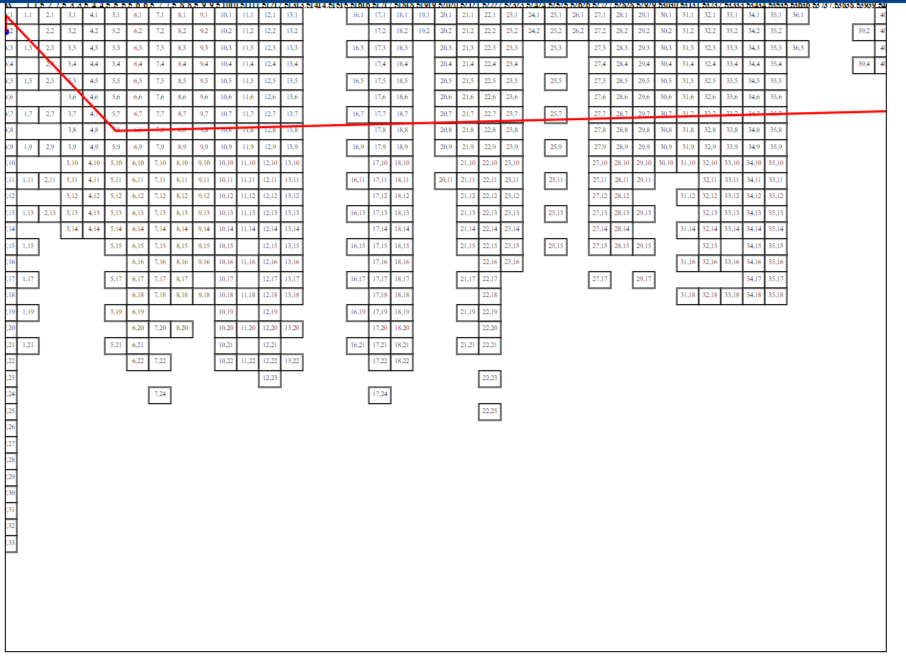
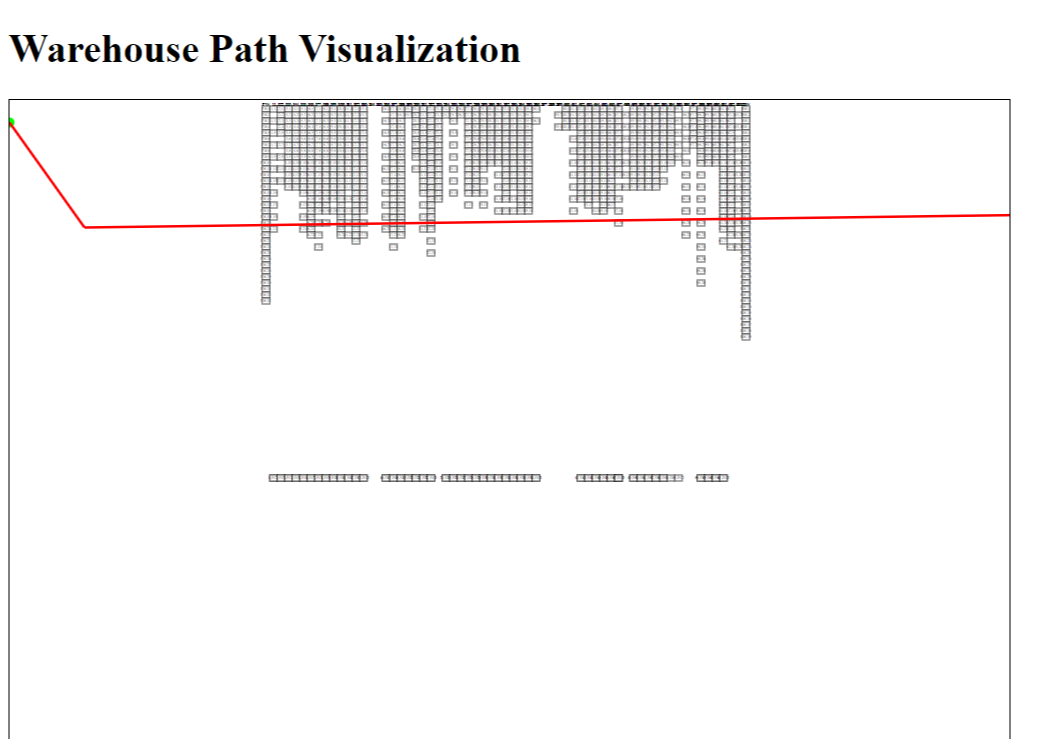
Agent query: Please check if the warehouse visualization now displays all aisles from 1 to 63, including non-integer values, and if the scroll function is working properly. Also, verify if the path lines up correctly over the destinations. Test with the following pallet list: FW,1 1.5,3 3,EC2 BW,3 2

Changed region(s): [[0.0, 0.0, 1.0, 0.9985]]

diff --git a/templates/visualization.html b/templates/visualization.html
@@ -5,8 +5,14 @@
     <meta name="viewport" content="width=device-width, initial-scale=1.0">
     <title>Warehouse Path Visualization</title>
     <style>
-        svg {
+        .svg-container {
+            width: 100%;
+            height: 600px;
+            overflow: auto;
             border: 1px solid black;
+        }
+        svg {
+            display: block;
         }
         .aisle {
             fill: #f0f0f0;
@@ -18,26 +24,28 @@
         }
         .path {
             fill: none;
-            stroke: #ff0000;
-            stroke-width: 2;
+            stroke: #0000ff;
+            stroke-width: 3;
         }
         .start {
             fill: #00ff00;
         }
         .end {
-            fill: #0000ff;
+            fill: #ff0000;
         }
     </style>
 </head>
 <body>
     <h1>Warehouse Path Visualization</h1>
-    <svg width="800" height="600" viewBox="0 0 800 600">
-        <!-- Warehouse layout will be inserted here -->
-        {{ warehouse_svg|safe }}
-        
-        <!-- Path will be inserted here -->
-        {{ path_svg|safe }}
-    </svg>
+    <div class="svg-container">
+        <svg>
+            <!-- Warehouse layout will be inserted here -->
+            {{ warehouse_svg|safe }}
+            
+            <!-- Path will be inserted here -->
+            {{ path_svg|safe }}
+        </svg>
+    </div>
     <h2>Path Details:</h2>
     <ul>
     {% for step in path %}

diff --git a/app.py b/app.py
@@ -7,10 +7,10 @@ def generate_warehouse_svg(warehouse_layout):
     svg = []
     aisle_positions = {}
     max_aisle = 63
-    aisle_width = 15  # Further reduced width to fit all aisles
-    bay_height = 12  # Further reduced height for better fit
+    aisle_width = 20  # Increased width for better readability
+    bay_height = 15  # Increased height for better readability
     svg_width = (max_aisle + 2) * aisle_width  # +2 for FW and BW
-    svg_height = 1500  # Adjusted height
+    svg_height = 2000  # Increased height to accommodate all bays
 
     # Calculate x-positions for all aisles, including non-integer values
     for aisle in range(1, max_aisle + 1):
@@ -37,22 +37,22 @@ def generate_warehouse_svg(warehouse_layout):
             fill_color = "#ffffff"
 
         svg.append(f'<rect x="{x-aisle_width//2}" y="{y}" width="{aisle_width}" height="{bay_height}" class="bay" fill="{fill_color}" stroke="#000" />')
-        svg.append(f'<text x="{x}" y="{y+bay_height//2}" text-anchor="middle" dominant-baseline="middle" font-size="8">{aisle},{bay}</text>')
+        svg.append(f'<text x="{x}" y="{y+bay_height//2}" text-anchor="middle" dominant-baseline="middle" font-size="10">{aisle},{bay}</text>')
 
     # Add aisle labels at the top
     for aisle, x in aisle_positions.items():
-        svg.append(f'<text x="{x}" y="5" text-anchor="middle" dominant-baseline="hanging" font-size="10" font-weight="bold">{aisle}</text>')
+        svg.append(f'<text x="{x}" y="5" text-anchor="middle" dominant-baseline="hanging" font-size="12" font-weight="bold">{aisle}</text>')
 
-    return f'<svg width="100%" height="100%" viewBox="0 0 {svg_width} {svg_height}">' + ''.join(svg) + '</svg>'
+    return f'<svg width="{svg_width}" height="{svg_height}" viewBox="0 0 {svg_width} {svg_height}">' + ''.join(svg) + '</svg>'
 
 def generate_path_svg(path, warehouse_layout):
     svg = []
     aisle_positions = {}
     max_aisle = 63
-    aisle_width = 15  # Matching the width in generate_warehouse_svg
-    bay_height = 12  # Matching the height in generate_warehouse_svg
+    aisle_width = 20  # Matching the width in generate_warehouse_svg
+    bay_height = 15  # Matching the height in generate_warehouse_svg
     svg_width = (max_aisle + 2) * aisle_width  # +2 for FW and BW
-    svg_height = 1500  # Matching the height in generate_warehouse_svg
+    svg_height = 2000  # Matching the height in generate_warehouse_svg
 
     # Calculate x-positions for all aisles, including non-integer values
     for aisle in range(1, max_aisle + 1):
@@ -74,9 +74,9 @@ def generate_path_svg(path, warehouse_layout):
             y = svg_height // 2  # Default position for unknown bays
 
         if i == 0:
-            svg.append(f'<circle cx="{x}" cy="{y}" r="4" class="start" fill="#00ff00" />')
+            svg.append(f'<circle cx="{x}" cy="{y}" r="5" class="start" fill="#00ff00" />')
         elif i == len(path) - 1:
-            svg.append(f'<circle cx="{x}" cy="{y}" r="4" class="end" fill="#ff0000" />')
+            svg.append(f'<circle cx="{x}" cy="{y}" r="5" class="end" fill="#ff0000" />')
         if i > 0:
             prev_aisle, prev_bay = path[i-1]['Move to']
             prev_x = aisle_positions[prev_aisle]
@@ -86,7 +86,7 @@ def generate_path_svg(path, warehouse_layout):
                 prev_y = svg_height // 2
             else:
                 prev_y = svg_height // 2  # Default position for unknown bays
-            svg.append(f'<line x1="{prev_x}" y1="{prev_y}" x2="{x}" y2="{y}" class="path" stroke="#0000ff" stroke-width="2" />')
+            svg.append(f'<line x1="{prev_x}" y1="{prev_y}" x2="{x}" y2="{y}" class="path" stroke="#0000ff" stroke-width="3" />')
     
     return ''.join(svg)
 
